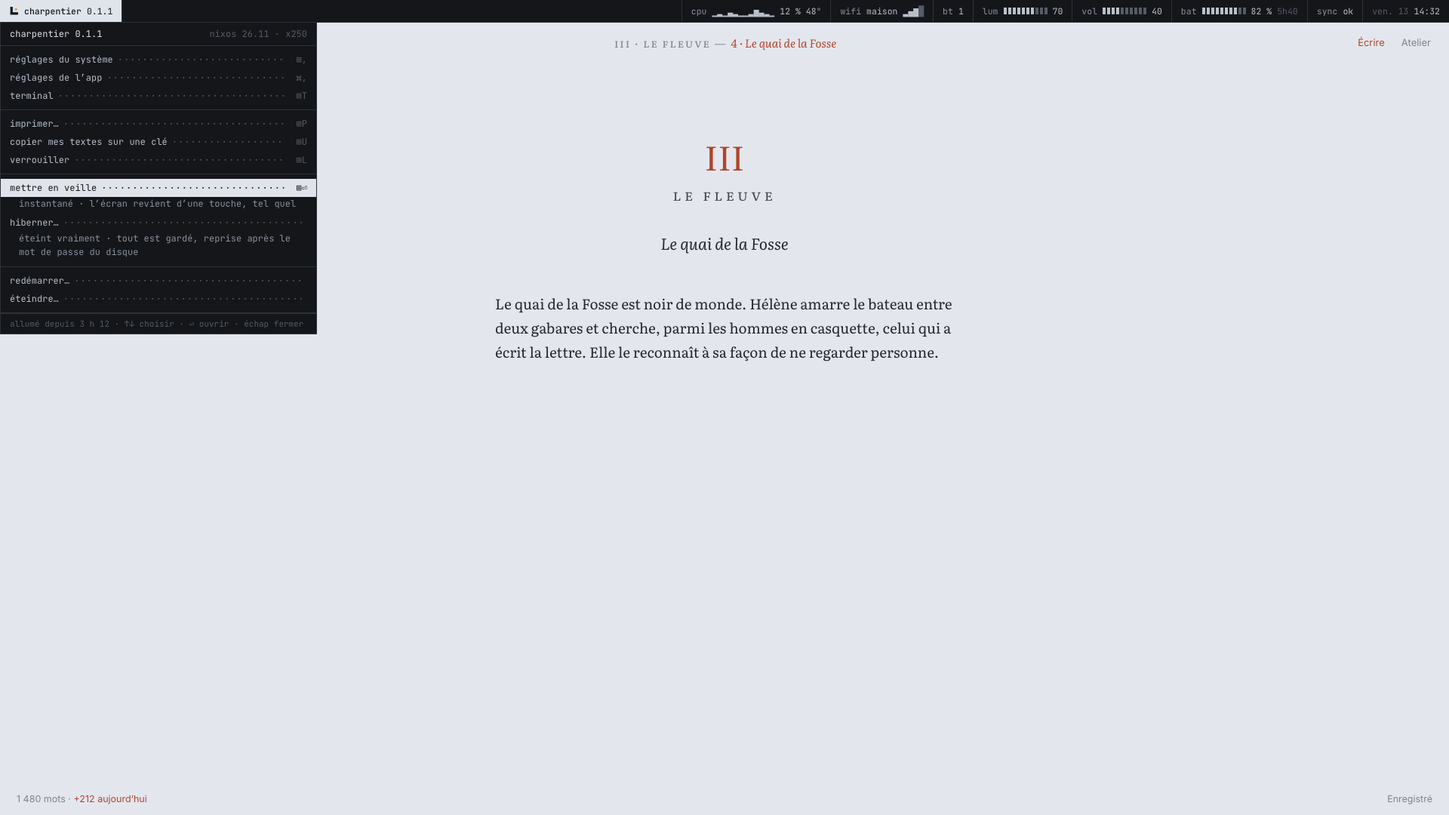
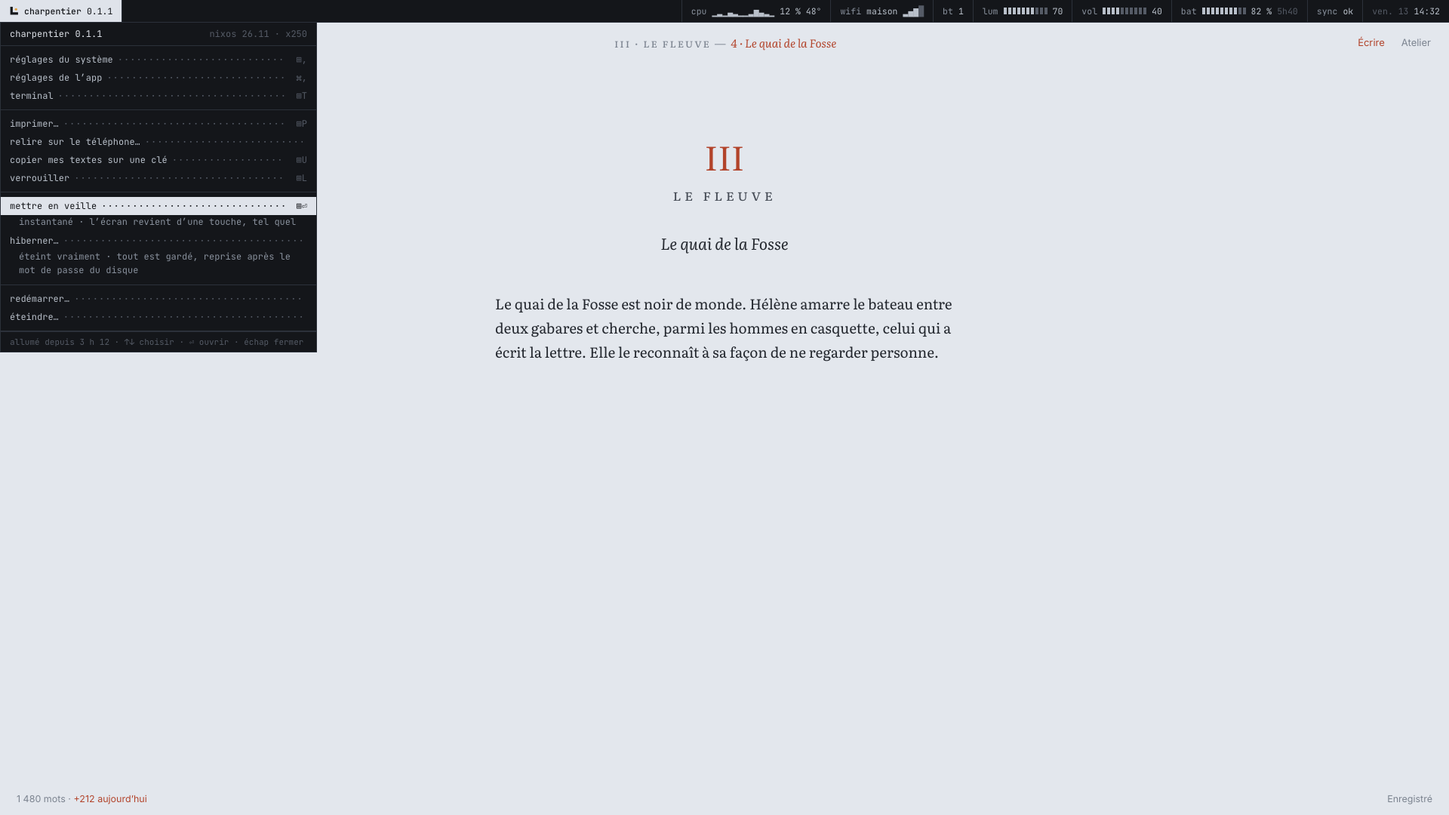
docs(design): 1.22, D-41 in the system's charter: the writing odometer and year map, :fetch, the maintenance log and system repair, reading on the phone

Changed region(s): [[0.0, 0.1528, 0.2188, 0.4583]]

diff --git a/docs/design/systeme.html b/docs/design/systeme.html
@@ -537,7 +537,7 @@
             `<div class="sys panel" style="width:420px">
             <div class="ph">charpentier 0.1.1<span>nixos 26.11 · x250</span></div>
             <div class="grp">${row('réglages du système', '', { k: '⊞,' })}${row('réglages de l’app', '', { k: '⌘,' })}${row('terminal', '', { k: '⊞T' })}</div>
-            <div class="grp">${row('imprimer…', '', { k: '⊞P' })}${row('copier mes textes sur une clé', '', { k: '⊞U' })}${row('verrouiller', '', { k: '⊞L' })}</div>
+            <div class="grp">${row('imprimer…', '', { k: '⊞P' })}${row('relire sur le téléphone…')}${row('copier mes textes sur une clé', '', { k: '⊞U' })}${row('verrouiller', '', { k: '⊞L' })}</div>
             <div class="grp">
               <div class="row sel"><span>mettre en veille</span>${lead()}<span class="k">⊞⏎</span></div>
               <div class="help">instantané · l’écran revient d’une touche, tel quel</div>
@@ -673,6 +673,127 @@
               </div>
             </div>
           </div>`,
+        moniteur: () =>
+          line({ open: 'cpu', msg: '' }) +
+          `<div class="sys full" style="padding:18px 28px">
+            <div style="display:flex;align-items:center;gap:10px;padding-bottom:12px;border-bottom:1px solid var(--sys-rule)">${SQ}<span style="color:var(--ch-ink)">moniteur</span><span class="f">x250 · i5-5300U · 8 Go · allumé depuis 3 h 12</span><span style="margin-left:auto" class="f">1 min · <span style="color:var(--ch-ink)">[10 min]</span> · 1 h · échap ×</span></div>
+            <div style="display:grid;grid-template-columns:2fr 1fr;gap:0;border-bottom:1px solid var(--sys-rule)">
+              <div style="padding:14px 20px 16px 0;border-right:1px solid var(--sys-rule)">
+                <div class="row" style="padding:0"><span style="color:var(--ch-ink)">écriture</span>${lead()}<span class="sub">compté sur cet appareil seulement</span></div>
+                <div style="display:flex;gap:56px;align-items:flex-end;margin:12px 0 16px">
+                  <div><div class="f">frappes depuis l’installation</div><div style="display:flex;gap:3px;margin-top:6px">${'0412873'
+                    .split('')
+                    .map(
+                      (d, i) =>
+                        `<span style="display:inline-block;width:30px;height:42px;border:1px solid var(--sys-rule);text-align:center;font:300 30px/42px var(--ch-font-sys);color:var(--ch-ink)${i === 3 ? ';margin-left:8px' : ''}">${d}</span>`,
+                    )
+                    .join('')}</div></div>
+                  <div><div class="f">mots par minute</div><div style="font:300 30px/42px var(--ch-font-sys);color:var(--ch-ink);margin-top:6px">38 <span style="font-size:13px" class="sub">en ce moment · 31 en moyenne</span></div></div>
+                  <div><div class="f">aujourd’hui</div><div style="font:300 30px/42px var(--ch-font-sys);color:var(--ch-ink);margin-top:6px">1 214 <span style="font-size:13px" class="sub">mots · 1 h 48</span></div></div>
+                </div>
+                <div class="f" style="margin-bottom:6px">2026 · mots par jour</div>
+                <div id="year" style="display:grid;grid-template-rows:repeat(7,11px);grid-auto-flow:column;grid-auto-columns:11px;gap:3px"></div>
+                <div style="display:flex;gap:6px;align-items:center;margin-top:8px" class="f">moins ${[0, 1, 2, 3, 4].map((l) => `<i style="display:inline-block;width:11px;height:11px;background:${['#20242a', '#3a404a', '#5f6773', '#8f97a3', '#c9ced6'][l]}"></i>`).join('')} plus · 214 jours d’écriture · plus longue série 23 jours</div>
+              </div>
+              <div style="padding:14px 0 16px 20px;min-width:0;overflow:hidden">
+                <div class="row" style="padding:0"><span style="color:var(--ch-ink)">processeur</span>${lead()}<span class="val">12 %</span></div>
+                <svg viewBox="0 0 300 70" width="340" height="84" style="display:block;margin:8px 0"><path d="M0 60 L20 58 40 61 60 50 80 55 100 40 120 52 140 57 160 30 180 48 200 55 220 59 240 45 260 52 280 57 300 54" fill="none" stroke="#dfe3ea" stroke-width="1.4"/><path d="M0 60 L20 58 40 61 60 50 80 55 100 40 120 52 140 57 160 30 180 48 200 55 220 59 240 45 260 52 280 57 300 54 V70 H0Z" fill="rgb(223 227 234 / .08)"/></svg>
+                ${row('fréquence', '1,2 GHz')}${row('charge 1, 5, 15 min', '0,42 · 0,51 · 0,48')}
+              </div>
+            </div>
+          </div>`,
+        fetch: () =>
+          page() +
+          line({ msg: '' }) +
+          `<div class="sys" style="position:absolute;inset:30px 0 auto;height:432px;z-index:4;border-bottom:1px solid var(--sys-rule);font-size:13px;line-height:20px">
+            <div style="display:flex;justify-content:space-between;padding:4px 14px;border-bottom:1px solid var(--sys-rule);font-size:12px;line-height:22px"><span style="display:flex;gap:9px;align-items:center;color:var(--ch-ink)">${SQ}terminal <span style="color:var(--ch-faint)">pierre@x250 · ~</span></span><span style="color:var(--ch-faint)">⊞↑ ⊞↓ hauteur · ⊞⇧T plein cadre · ⊞T fermer</span></div>
+            <div style="padding:10px 14px"><span style="color:var(--ch-muted)">~ $</span> :fetch</div>
+            <div style="display:flex;gap:42px;padding:6px 14px 0 30px">
+<pre style="margin:0;font:inherit;line-height:14px;color:var(--ch-ink)">████
+████
+████
+████           <span style="color:#e0a040">▄██▄</span>
+████           <span style="color:#e0a040">▀██▀</span>
+████
+████
+██████████████████████
+██████████████████████
+██████████████████████</pre>
+              <div style="min-width:520px">
+                <div style="color:var(--ch-ink)">pierre<span class="f">@</span>x250</div><div class="f">────────────────────────</div>
+                ${[
+                  ['charpentier', '0.1.1 · installée le 14 nov.'],
+                  ['système', 'nixos 26.11 · génération 42'],
+                  ['machine', 'thinkpad x250 · i5-5300U · 8 Go'],
+                  ['écran', '1920 × 1080 · 100 %'],
+                  ['disque', '118 Go chiffrés · 21 % occupés'],
+                  ['batteries', '74 % + 90 % · usure 12 %, 21 %'],
+                  ['allumé depuis', '3 h 12'],
+                  ['frappes', '412 873 depuis l’installation'],
+                  ['aujourd’hui', '1 214 mots'],
+                ]
+                  .map(
+                    ([k, v]) =>
+                      `<div><span style="color:var(--ch-muted);display:inline-block;width:150px">${k}</span><span style="color:var(--ch-ink-2)">${v}</span></div>`,
+                  )
+                  .join('')}
+                <div style="display:flex;gap:0;margin-top:10px">${['#14161a', '#d26a5c', '#8fb58a', '#c8a86a', '#7d9cc0', '#b48ab8', '#7fb3b0', '#b9c0ca'].map((c) => `<i style="display:block;width:28px;height:14px;background:${c};border:1px solid var(--sys-rule)"></i>`).join('')}</div>
+                <div style="display:flex;gap:0">${['#555b66', '#e08575', '#a8cba3', '#dcc488', '#9db8d8', '#c9a3cc', '#9ccbc8', '#dfe3ea'].map((c) => `<i style="display:block;width:28px;height:14px;background:${c};border:1px solid var(--sys-rule)"></i>`).join('')}</div>
+              </div>
+            </div>
+            <div style="padding:10px 14px"><span style="color:var(--ch-muted)">~ $</span> <span style="background:#e0a040;color:#14161a">&nbsp;</span></div>
+          </div>`,
+        apropos: () =>
+          line({ msg: '' }) +
+          `<div class="sys full">
+          <div class="rail"><div class="t">${SQ}réglages du système</div><div style="padding-top:8px">
+            ${row('réseau', 'maison')}${row('bluetooth', '1')}${row('écran', '100 %')}${row('son', '40')}${row('clavier', 'azerty')}${row('énergie', '82 %')}${row('verrouillage', 'au réveil')}${row('impression', 'brother')}${row('clé usb', '—')}${row('date et heure', 'paris')}${row('terminal', 'visible')}
+            <div class="row sel"><span>à propos</span>${lead()}<span>0.1.1</span></div></div>
+            <div class="last">${row('réglages de l’app', '', { k: '⌘,' })}</div></div>
+          <div class="sec"><div class="xclose">échap ×</div><div class="path">réglages du système /</div><h1>à propos</h1>
+            <div class="grp"><div class="gt">charpentier</div>${row('version', '0.1.1 · installée le 14 nov. 2026')}${row('système', 'nixos 26.11 · génération 42')}${row('mise à jour', 'à jour · vérifiée à 14:05')}</div>
+            <div class="grp"><div class="gt">carnet d’entretien</div>
+              ${row('bat0 · interne', 'usure 12 % · 214 cycles · 23,1 Wh sur 26,3')}
+              ${row('bat1 · arrière', 'usure 21 % · 389 cycles · 19,0 Wh sur 24,0')}
+              ${row('disque · smart', 'bon · 6 412 h · 0 secteur réalloué')}
+              ${row('températures', 'max 71° ce mois · ventilateur 3 200 tr/min')}
+              <div class="gt" style="margin-top:8px">notes</div>
+              ${row('<span class="sub">12 oct. 2026</span>&nbsp;&nbsp;pâte thermique refaite', '')}
+              ${row('<span class="sub">3 sept. 2026</span>&nbsp;&nbsp;batterie arrière changée (Green Cell)', '')}
+              <div class="row"><span class="btn">ajouter une note<kbd>N</kbd></span></div>
+            </div>
+            <div class="grp"><div class="gt">réparer</div>
+              <div class="row sel"><span>réparer le système…</span>${lead()}<span>⏎</span></div>
+              <div class="help" style="padding-left:0">vérifie chaque fichier du système et remplace ce qui est abîmé, depuis le serveur ; reconstruit le menu de démarrage. ne touche ni à vos projets, ni aux réseaux, au verrou, à la synchronisation, à la clé ou aux réglages.</div>
+            </div>
+            <div class="foot" style="border:0;padding:12px 0 0">↑↓ choisir · ⏎ ouvrir · N note · échap revenir au texte</div>
+          </div></div>`,
+        reparer: () =>
+          line({ msg: 'réparation · 1 284 fichiers sur 3 902' }) +
+          `<div class="sys full"><div class="sec" style="left:0;padding:22px 48px 0 389px"><div class="path">réglages du système / à propos /</div><h1>réparer le système</h1>
+            <div class="grp"><div class="row"><span>vérification des fichiers</span>${lead()}<span class="val">1 284 / 3 902</span></div>
+            <div style="display:flex;gap:2px;margin:6px 0 10px">${Array.from({ length: 40 }, (_, i) => `<i style="width:6px;height:10px;background:${i < 13 ? '#b9c0ca' : '#2c313a'}"></i>`).join('')}</div>
+            ${row('remplacés', '2 · depuis sync.exemple.org')}${row('menu de démarrage', '<span class="sub">à reconstruire ensuite</span>')}
+            <div class="help" style="padding-left:0">vous pouvez continuer d’écrire. rien n’est redémarré sans vous le demander.</div></div>
+            <div class="grp" style="padding-top:12px"><span class="btn">arrêter<kbd>échap</kbd></span></div>
+          </div></div>`,
+        telephone: () =>
+          page() +
+          line({ open: 'sys', msg: '' }) +
+          under(
+            'sys',
+            `<div class="sys panel" style="width:420px">
+            <div class="ph">relire sur le téléphone<span>lecture seule</span></div>
+            <div class="grp" style="display:flex;gap:16px;padding:14px 12px">
+              <div id="qr" style="flex:none;width:148px;height:148px;background:#dfe3ea;padding:8px;box-sizing:border-box"></div>
+              <div style="line-height:20px"><div style="color:var(--ch-ink)">visez ce code avec le téléphone</div>
+                <div class="sub" style="margin-top:6px">même réseau que le x250 :</div><div style="color:var(--ch-ink-2)">maison</div>
+                <div class="sub" style="margin-top:6px">ou ouvrez :</div><div style="color:var(--ch-ink-2)">192.168.1.24:8443</div><div class="sub">code <span style="color:var(--ch-ink)">K7Q-42M</span></div></div>
+            </div>
+            <div class="grp">${row('roman', 'Avant Nantes')}${row('à partir de', 'III.4 · Le quai de la Fosse')}</div>
+            <div class="foot">ouvert tant que ce panneau l’est · échap coupe l’accès</div>
+          </div>`,
+          ),
         echelle: () =>
           page() +
           line({ msg: 'clé branchée · <span class="acc">⊞U copier</span>', batLow: false }),
@@ -685,6 +806,58 @@
           }),
       };
       frame.innerHTML = (screens[ecran] || screens.ligne)();
+      // La carte de l'année (moniteur) et un faux code QR (téléphone), tirés d'un hasard fixe.
+      let seed = 7;
+      const rnd = () => (seed = (seed * 9301 + 49297) % 233280) / 233280;
+      const year = document.getElementById('year');
+      if (year) {
+        const tones = ['#20242a', '#3a404a', '#5f6773', '#8f97a3', '#c9ced6'];
+        year.innerHTML = Array.from({ length: 53 * 7 }, (_, i) => {
+          const future = i > 46 * 7 + 1;
+          const r = rnd();
+          const l = future ? -1 : r < 0.35 ? 0 : r < 0.55 ? 1 : r < 0.78 ? 2 : r < 0.93 ? 3 : 4;
+          return `<i style="background:${l < 0 ? 'transparent;outline:1px solid #20242a' : tones[l]}"></i>`;
+        }).join('');
+      }
+      const qr = document.getElementById('qr');
+      if (qr) {
+        const n = 25;
+        const finder = (x, y) =>
+          [
+            [0, 0],
+            [n - 7, 0],
+            [0, n - 7],
+          ].some(([a, b]) => x >= a && x < a + 7 && y >= b && y < b + 7);
+        const fin = (x, y) => {
+          for (const [a, b] of [
+            [0, 0],
+            [n - 7, 0],
+            [0, n - 7],
+          ]) {
+            if (x >= a && x < a + 7 && y >= b && y < b + 7) {
+              const dx = x - a,
+                dy = y - b;
+              return (
+                dx === 0 ||
+                dy === 0 ||
+                dx === 6 ||
+                dy === 6 ||
+                (dx >= 2 && dx <= 4 && dy >= 2 && dy <= 4)
+              );
+            }
+          }
+          return false;
+        };
+        qr.innerHTML = `<svg viewBox="0 0 ${n} ${n}" width="132" height="132" shape-rendering="crispEdges">${Array.from(
+          { length: n * n },
+          (_, i) => {
+            const x = i % n,
+              y = Math.floor(i / n);
+            const on = finder(x, y) ? fin(x, y) : rnd() < 0.5;
+            return on ? `<rect x="${x}" y="${y}" width="1" height="1" fill="#14161a"/>` : '';
+          },
+        ).join('')}</svg>`;
+      }
     </script>
   </body>
 </html>

diff --git a/docs/DESIGN.md b/docs/DESIGN.md
@@ -1,6 +1,6 @@
 # Charpentier : design language
 
-- **Version** : 1.22 (17 novembre 2026). 1.22 : la vue **Réglages de l'app** (`⌘,`) dans le design de l'app (§4.8) ; le **démarrage** du X250 en un plan fixe, du logo du fabricant au rideau qui devient la ligne système, la barre en encre (§4.12) ; seize couleurs sobres dans le terminal. 1.21 : la **charte du système** du X250 (choix de l'auteur) : grammaire « instrument plat » (surfaces plates, filets, sélection inversée, points de conduite) et une couleur propre à la machine, l'**ambre**, pour ce qui attend un geste (§3.1) ; dans §4.12, la ligne commence par `charpentier 0.1.1`, un seul segment réseau, la ligne dessinée pour 1920 px avec un ordre de retrait à 150 %, les notifications en trois niveaux, la section Énergie, veille et hibernation distinctes, un terminal intégré, Imprimer et le verrouillage dans la charte du système, des Réglages du système entièrement dans cette charte. 1.20 : les **versions de travail** du roman (choix de l'auteur : ni copie, ni branches) : une version retient la variante lue pour chaque scène, tout le reste est commun ; elles vivent dans la feuille du roman, la version active se lit dans le titre, l'en-tête de scène et le tiroir (§4.4) ; les deux choix confirmés par l'auteur. 1.19 : le **titre du roman** devient un point d'entrée visible en haut à gauche de la page, sur le Mac, le web et le X250 ; il ouvre la feuille du roman (renommer, les trois derniers romans, tous les romans), renommer aussi dans la vue d'ensemble, et le titre du tiroir ouvre la même feuille (§4.8) ; les trois choix confirmés par l'auteur. 1.18 : **un seul fil, deux vues** [D-35] : l'Entretien et la Conversation montrent le même fil, chacune plie les échanges de l'autre mode à leur place, « Ouvrir dans la conversation » depuis un pli ; la page devient **« Le Compagnon »**, en mode entretien (tranché par l'auteur) ; deux choix à confirmer (§4.5). 1.17 : le **Carnet du Compagnon** [D-35] (phase 6.5) : sa mémoire en notes courtes, deux carnets (Ce roman, Vous) sur une page de l'Atelier, notes du Compagnon dans son encre, notes de l'auteur en creux avec le filet vermillon, correction sur place, corbeille, « Noté au carnet » sous ses réponses, retour au message d'origine (§4.5) ; trois choix à confirmer par l'auteur. 1.16 : les **textes de référence** et la page **Style et voix** (phase 6.4) : import depuis l'Entretien, confirmation avec le coût dans la conversation, propositions sous la réponse, module groupé par catégorie, citation gravée d'un choix validé dans une remarque (§4.5) ; deux choix à confirmer par l'auteur. 1.15 : la **page d'administration du serveur** `/admin`, dans la matière du système, feuille de style livrée (§4.13) ; matière à confirmer par l'auteur. 1.14 : les **travaux de fond du Compagnon** [D-27] : vérifier la structure, suivre les indices, faire le point sur un personnage, lancés en pied de la liste du module, coût annoncé, état sur place, bilan dans la conversation (§4.5 « Travaux de fond du Compagnon ») ; trois choix à confirmer par l'auteur. 1.13 : la **croix de fermeture**, partout où l'on sort par `Échap`, pour tout faire à la souris (§4.8 « Sortie à la souris »). 1.12 : le **premier démarrage du X250 depuis le téléphone** [D-33] : choix téléphone ou clavier, deux codes QR, réglages appliqués ligne à ligne, page du téléphone (§4.12 « Premier démarrage de l'appareil ») ; les petits écrans, jusqu'à 880 px sans défilement de côté (§4.2, §4.12 « Largeur », §5.4). 1.11 : l'**installation du X250** depuis la clé USB et `scripts/flash-installer.sh` sur le Mac (§4.12 « Installation »). 1.10 : les **mises à jour du X250**, tirées du serveur [D-28] : segment `maj`, `⊞R`, « À propos », retour à la version précédente (§4.12). 1.9 : l'**Entretien** avec le Compagnon en tête du rail de l'Atelier [D-26] (§4.5) ; « Méta » devient « Le projet ». 1.8 : **le creux garde, la lumière suit** : deux signes, deux sens, jamais sur le même élément (§1 principe 3, §4.7) ; la lumière devient la lueur blanche qui déborde sous la ligne système quand un segment s'ouvre (sur la page claire, l'élément pâlit en plus), les onglets perdent leur rail, une option choisie est une touche restée enfoncée, l'appui allume. Remplace le « relief, creux, allumé » de la 1.7 (cerne et halo de lumière, creux le temps de l'appui, « relief allumé »), où l'auteur ne voyait pas de vraie logique de séparation ; le « liseré de lumière » de la 1.5 reste abandonné. 1.6 : le moniteur du X250 (§4.12). 1.5 : la **ligne système** du X250 et tout ce qu'elle ouvre (§4.12), la matière du système (§3.1), la police à chasse fixe (§3.2), le **liseré de lumière** sur ce qu'on presse (§4.7). 1.4 : en thème sombre, l'ardoise reste la même et la page s'assombrit (§3.1). 1.3 : les outils changent de matière, **ardoise sombre**, et reçoivent des **outils gravés** (§3.1, §4.11), l'auteur trouvant l'ensemble trop neutre hors de la page d'écriture. 1.2 : finitions (sons §3.4, rejets §4.5, restauration dans la vue d'ensemble §4.4, note en fenêtre étroite §4.2, bibliothèque §4.9, icône §4.10). 1.1 : tout devient découvrable sans raccourci (§4.8, §5.1), après essai de l'app par l'auteur ; inventaire et directions comparées dans [design/decouverte.md](design/decouverte.md).
+- **Version** : 1.22 (17 novembre 2026). 1.22 : D-41 dessiné dans la charte du système (l'odomètre et la carte d'écriture du moniteur, `:fetch`, le carnet d'entretien et « Réparer le système… », relire sur le téléphone) ; la vue **Réglages de l'app** (`⌘,`) dans le design de l'app (§4.8) ; le **démarrage** du X250 en un plan fixe, du logo du fabricant au rideau qui devient la ligne système, la barre en encre (§4.12) ; seize couleurs sobres dans le terminal. 1.21 : la **charte du système** du X250 (choix de l'auteur) : grammaire « instrument plat » (surfaces plates, filets, sélection inversée, points de conduite) et une couleur propre à la machine, l'**ambre**, pour ce qui attend un geste (§3.1) ; dans §4.12, la ligne commence par `charpentier 0.1.1`, un seul segment réseau, la ligne dessinée pour 1920 px avec un ordre de retrait à 150 %, les notifications en trois niveaux, la section Énergie, veille et hibernation distinctes, un terminal intégré, Imprimer et le verrouillage dans la charte du système, des Réglages du système entièrement dans cette charte. 1.20 : les **versions de travail** du roman (choix de l'auteur : ni copie, ni branches) : une version retient la variante lue pour chaque scène, tout le reste est commun ; elles vivent dans la feuille du roman, la version active se lit dans le titre, l'en-tête de scène et le tiroir (§4.4) ; les deux choix confirmés par l'auteur. 1.19 : le **titre du roman** devient un point d'entrée visible en haut à gauche de la page, sur le Mac, le web et le X250 ; il ouvre la feuille du roman (renommer, les trois derniers romans, tous les romans), renommer aussi dans la vue d'ensemble, et le titre du tiroir ouvre la même feuille (§4.8) ; les trois choix confirmés par l'auteur. 1.18 : **un seul fil, deux vues** [D-35] : l'Entretien et la Conversation montrent le même fil, chacune plie les échanges de l'autre mode à leur place, « Ouvrir dans la conversation » depuis un pli ; la page devient **« Le Compagnon »**, en mode entretien (tranché par l'auteur) ; deux choix à confirmer (§4.5). 1.17 : le **Carnet du Compagnon** [D-35] (phase 6.5) : sa mémoire en notes courtes, deux carnets (Ce roman, Vous) sur une page de l'Atelier, notes du Compagnon dans son encre, notes de l'auteur en creux avec le filet vermillon, correction sur place, corbeille, « Noté au carnet » sous ses réponses, retour au message d'origine (§4.5) ; trois choix à confirmer par l'auteur. 1.16 : les **textes de référence** et la page **Style et voix** (phase 6.4) : import depuis l'Entretien, confirmation avec le coût dans la conversation, propositions sous la réponse, module groupé par catégorie, citation gravée d'un choix validé dans une remarque (§4.5) ; deux choix à confirmer par l'auteur. 1.15 : la **page d'administration du serveur** `/admin`, dans la matière du système, feuille de style livrée (§4.13) ; matière à confirmer par l'auteur. 1.14 : les **travaux de fond du Compagnon** [D-27] : vérifier la structure, suivre les indices, faire le point sur un personnage, lancés en pied de la liste du module, coût annoncé, état sur place, bilan dans la conversation (§4.5 « Travaux de fond du Compagnon ») ; trois choix à confirmer par l'auteur. 1.13 : la **croix de fermeture**, partout où l'on sort par `Échap`, pour tout faire à la souris (§4.8 « Sortie à la souris »). 1.12 : le **premier démarrage du X250 depuis le téléphone** [D-33] : choix téléphone ou clavier, deux codes QR, réglages appliqués ligne à ligne, page du téléphone (§4.12 « Premier démarrage de l'appareil ») ; les petits écrans, jusqu'à 880 px sans défilement de côté (§4.2, §4.12 « Largeur », §5.4). 1.11 : l'**installation du X250** depuis la clé USB et `scripts/flash-installer.sh` sur le Mac (§4.12 « Installation »). 1.10 : les **mises à jour du X250**, tirées du serveur [D-28] : segment `maj`, `⊞R`, « À propos », retour à la version précédente (§4.12). 1.9 : l'**Entretien** avec le Compagnon en tête du rail de l'Atelier [D-26] (§4.5) ; « Méta » devient « Le projet ». 1.8 : **le creux garde, la lumière suit** : deux signes, deux sens, jamais sur le même élément (§1 principe 3, §4.7) ; la lumière devient la lueur blanche qui déborde sous la ligne système quand un segment s'ouvre (sur la page claire, l'élément pâlit en plus), les onglets perdent leur rail, une option choisie est une touche restée enfoncée, l'appui allume. Remplace le « relief, creux, allumé » de la 1.7 (cerne et halo de lumière, creux le temps de l'appui, « relief allumé »), où l'auteur ne voyait pas de vraie logique de séparation ; le « liseré de lumière » de la 1.5 reste abandonné. 1.6 : le moniteur du X250 (§4.12). 1.5 : la **ligne système** du X250 et tout ce qu'elle ouvre (§4.12), la matière du système (§3.1), la police à chasse fixe (§3.2), le **liseré de lumière** sur ce qu'on presse (§4.7). 1.4 : en thème sombre, l'ardoise reste la même et la page s'assombrit (§3.1). 1.3 : les outils changent de matière, **ardoise sombre**, et reçoivent des **outils gravés** (§3.1, §4.11), l'auteur trouvant l'ensemble trop neutre hors de la page d'écriture. 1.2 : finitions (sons §3.4, rejets §4.5, restauration dans la vue d'ensemble §4.4, note en fenêtre étroite §4.2, bibliothèque §4.9, icône §4.10). 1.1 : tout devient découvrable sans raccourci (§4.8, §5.1), après essai de l'app par l'auteur ; inventaire et directions comparées dans [design/decouverte.md](design/decouverte.md).
 - **Direction retenue** : **Perle** pour la page, **ardoise** pour les outils, avec **Deux encres**, **Signature** et **Outils gravés** ; manuscrit en **tiroir + vue d'ensemble** ; points d'entrée en **poignées** sur les bords et **zone de commande** en pied.
 - **Sources** : brief de l'auteur ([design/brief.md](design/brief.md)), maquettes ([design/mockups/](design/mockups/), ouvrir `index.html`), tokens CSS proposés ([design/tokens.css](design/tokens.css)).
 - Complète la [SPEC](SPEC.md) (§6 mentor, §7.1 statuts, §19 exigences transverses) sans la contredire.
@@ -452,7 +452,7 @@ Sur le X250, l'app est la partie visible du système [D-24]. Maquette : cadre «
 
 | Segment | Affiche | Un clic ou sa touche déplie |
 |---|---|---|
-| `charpentier 0.1.1` `⊞` | l'équerre ([design/pictos/equerre.svg](design/pictos/equerre.svg), en aplat, son point en ambre), `charpentier` en `--ch-ink` 500 et la version installée en `--ch-ink-2` (pas en ambre : ce n'est pas une attente) ; quand la place manque, la version s'efface avant le mot (1.21, demande de l'auteur : le nom de l'app et sa version à la place de « système ») | le **menu système**, en groupes séparés par des filets : Réglages du système… `⊞,`, Réglages de l'app… `⌘,`, Terminal `⊞T` ; Imprimer… `⊞P`, Copier mes textes sur une clé USB `⊞U`, Verrouiller `⊞L` ; **Mettre en veille** `⊞⏎` et **Hiberner…**, deux lignes à part, chacune avec sa ligne d'aide en `--ch-muted` (« instantané · l'écran revient d'une touche, tel quel » ; « éteint vraiment · tout est gardé, reprise après le mot de passe du disque ») ; Redémarrer…, Éteindre… En tête `charpentier 0.1.1` et `nixos 26.11 · x250`, en pied « allumé depuis 3 h 12 ». Rendu : [design/systeme/3-menu](design/systeme/3-menu.png). Une version prête : « Redémarrer… » devient « Redémarrer et passer à 0.6.0… `⊞R` », et le pied commence par « 0.6.0 s'installe au prochain démarrage, quel qu'il soit » |
+| `charpentier 0.1.1` `⊞` | l'équerre ([design/pictos/equerre.svg](design/pictos/equerre.svg), en aplat, son point en ambre), `charpentier` en `--ch-ink` 500 et la version installée en `--ch-ink-2` (pas en ambre : ce n'est pas une attente) ; quand la place manque, la version s'efface avant le mot (1.21, demande de l'auteur : le nom de l'app et sa version à la place de « système ») | le **menu système**, en groupes séparés par des filets : Réglages du système… `⊞,`, Réglages de l'app… `⌘,`, Terminal `⊞T` ; Imprimer… `⊞P`, Relire sur le téléphone…, Copier mes textes sur une clé USB `⊞U`, Verrouiller `⊞L` ; **Mettre en veille** `⊞⏎` et **Hiberner…**, deux lignes à part, chacune avec sa ligne d'aide en `--ch-muted` (« instantané · l'écran revient d'une touche, tel quel » ; « éteint vraiment · tout est gardé, reprise après le mot de passe du disque ») ; Redémarrer…, Éteindre… En tête `charpentier 0.1.1` et `nixos 26.11 · x250`, en pied « allumé depuis 3 h 12 ». Rendu : [design/systeme/3-menu](design/systeme/3-menu.png). Une version prête : « Redémarrer… » devient « Redémarrer et passer à 0.6.0… `⊞R` », et le pied commence par « 0.6.0 s'installe au prochain démarrage, quel qu'il soit » |
 | message | un message **à faire** en ambre, tant que sa cause dure ; un message **fait** en `--ch-muted`, quelques secondes, hors frappe ; sinon `journal` en `--ch-faint`, suivi de `· N` en ambre quand N choses attendent (voir « Notifications ») | le **journal** `⊞J` : en tête « à faire · N » (l'heure en ambre, le geste à droite : « réessayer ⏎ », `⊞R`), puis « fait », du plus récent au plus ancien ; effacé à l'extinction ; en pied « le reste est dans journalctl ». Rendu : [design/systeme/4-journal](design/systeme/4-journal.png) |
 | `maj` | la version prête (`maj 0.6.0`, la version en ambre), **seulement tant qu'une mise à jour attend le redémarrage** ; disparaît au démarrage suivant | la mise à jour `⊞R` : version, date de publication, notes, Redémarrer maintenant, Plus tard (voir « Mises à jour ») |
 | `usb` | le nom de la clé, seulement si une clé est branchée | Copier mes textes `⊞U`, Éjecter |
@@ -510,7 +510,7 @@ Sur le X250, l'app est la partie visible du système [D-24]. Maquette : cadre «
 | Date et heure | fuseau, heure automatique par le réseau, format 24 h / 12 h |
 | Terminal | point d'entrée visible `[oui] non` (oui par défaut) ; rappel : masqué et bloqué dès que l'app est verrouillée ; la combinaison de secours (`Ctrl` `Alt` `⇧` `⏎`, foot) et la console `Ctrl` `Alt` `F2` restent |
 | Ligne système | afficher le segment `cpu` (oui par défaut) ; les autres segments sont fixes |
-| À propos | Charpentier (version, date d'installation), système (NixOS, génération) ; **Mise à jour** : version prête ou nouveautés de la version installée, Vérification (dernière heure, Vérifier maintenant), Revenir à la version précédente (voir « Mises à jour ») ; **Appareil** : stockage, licences. Valeur dans le rail : la version, ou « 0.6.0 prête » |
+| À propos | Charpentier (version, date d'installation), système (NixOS, génération) ; **carnet d'entretien** (1.22, D-41) : chaque batterie (usure, cycles, capacité), le disque (état SMART, heures, secteurs réalloués), les températures (maximum du mois, ventilateur), puis des **notes à la main**, datées (« pâte thermique refaite »), ajoutées par « ajouter une note `N` » ; **réparer** : « réparer le système… » et son aide (« vérifie chaque fichier du système et remplace ce qui est abîmé, depuis le serveur ; reconstruit le menu de démarrage. ne touche ni à vos projets, ni aux réseaux, au verrou, à la synchronisation, à la clé ou aux réglages. ») ; confirmation légère (« confirmer : réparer `⏎` », 3 s), puis la page « réparer le système » : la barre de quarante cellules en encre, le compte des fichiers vérifiés et remplacés, « vous pouvez continuer d'écrire. rien n'est redémarré sans vous le demander. », « arrêter `échap` » ; à la fin, un message fait (« système réparé · 2 fichiers remplacés »). L'effacement du disque reste hors de l'interface. Rendus : [design/systeme/13-a-propos-entretien](design/systeme/13-a-propos-entretien.png), [14-reparer](design/systeme/14-reparer.png) ; **Mise à jour** : version prête ou nouveautés de la version installée, Vérification (dernière heure, Vérifier maintenant), Revenir à la version précédente (voir « Mises à jour ») ; **Appareil** : stockage, licences. Valeur dans le rail : la version, ou « 0.6.0 prête » |
 
 **Moniteur** (`⊞M`, ou un clic sur `cpu`). Pour le plaisir de voir tourner la machine : tout ce qu'elle sait mesurer, sans jamais déranger l'écriture.
 - **Segment `cpu`** : une colonne toutes les 5 secondes (la moyenne de ces 5 secondes), douze colonnes, soit la dernière minute ; hauteur sur huit niveaux. **Pendant la frappe, il se fige** : il ne se met plus à jour, puis rattrape à la première pause (même règle que les points d'entrée, §4.8). Présent d'office sur le X250, retirable dans les réglages.
@@ -525,6 +525,7 @@ Sur le X250, l'app est la partie visible du système [D-24]. Maquette : cadre «
 | batterie | puissance tirée en watts | chaque batterie : niveau et usure ; autonomie |
 | disque | écritures | espace occupé, lecture et écriture |
 | charpentier | – | tableau des processus de l'app (principal, interface, correcteur) : processeur, mémoire ; documents ouverts |
+| **écriture** (double largeur, en tête de la grille ; 1.22, D-41) | – | l'**odomètre** : les frappes depuis l'installation, sept chiffres dans des cases de 30 × 42 px (JetBrains Mono 300 30 px), groupés par milliers ; les **mots par minute** (en ce moment, en moyenne) et les mots du jour avec leur durée ; la **carte de l'année** : 53 colonnes de 7 jours, cases de 11 px espacées de 3 px, en cinq gris de `#20242a` à `#c9ced6` selon les mots du jour (jamais de couleur), les jours à venir en contour ; légende « moins … plus », jours d'écriture, plus longue série. En tête « compté sur cet appareil seulement » : ces chiffres ne quittent jamais le X250. Rendu : [design/systeme/11-moniteur-ecriture](design/systeme/11-moniteur-ecriture.png) |
 | graphique | – | modèle, fréquence, écran ; « charge : non mesurée » tant qu'elle n'est pas fiable |
 
 - **Courbes** : trait de 1,4 px en `--ch-ink`, aplat à 8 %, seconde série en pointillé `--ch-muted`, trois lignes de repère en pointillé `--ch-faint` ; un échantillon par seconde ; aucune couleur, aucune animation d'entrée. L'écran ne se met à jour que lorsqu'il est affiché.
@@ -564,6 +565,10 @@ Sur le X250, l'app est la partie visible du système [D-24]. Maquette : cadre «
 - **Le rideau** (choix de l'auteur) : l'équerre, la barre et le pied s'effacent en 150 ms, puis toute la matière du système **remonte** en 450 ms (`cubic-bezier(0.3, 0, 0.2, 1)`) jusqu'à n'être plus que la ligne système de 30 px, dont le contenu apparaît en 200 ms : la page se découvre de haut en bas, sans éclair blanc. Animations réduites : un fondu de 200 ms. Du mot de passe à la page : environ 15 s.
 - **Reprise après hibernation** : même plan, « reprise » ; la page revient telle qu'on l'a laissée, sans redemander le code de l'app (le mot de passe du disque vient d'être tapé).
 - **Extinction et redémarrage** : le rideau **redescend** depuis la ligne (450 ms), puis l'équerre et « extinction · vos textes sont enregistrés » (ou « redémarrage », « redémarrage · mise à jour 0.1.2 ») une fois l'enregistrement et la synchronisation faits ; pas de barre (la durée est inconnue) ; puis le noir, ou la séquence reprend.
+
+**`:fetch`** (1.22, D-41) : la fiche de la machine, pour le plaisir. Dans la ligne de commande, `:fetch` ouvre le terminal et y écrit, à gauche, l'**équerre en caractères de bloc** (`█`, `--ch-ink`, son point en ambre : c'est l'emblème), à droite `pierre@x250`, un filet, puis en deux colonnes alignées : charpentier, système, machine, écran, disque, batteries, allumé depuis, frappes depuis l'installation, mots du jour ; dessous, les seize couleurs du terminal en deux rangées de pastilles. Rendu : [design/systeme/12-fetch](design/systeme/12-fetch.png).
+
+**Relire sur le téléphone** (1.22, D-41) : « Relire sur le téléphone… » dans le menu système, ou `:telephone`. Un panneau de 420 px, en-tête « relire sur le téléphone » / `lecture seule` : à gauche le **code QR** (148 px, modules `#14161a` sur `--ch-ink`, la seule surface claire du système, parce qu'un téléphone doit le lire), à droite « visez ce code avec le téléphone », « même réseau que le x250 : maison », l'adresse et le **code** à saisir (`K7Q-42M`, le jeton) ; puis le roman et la scène de départ ; en pied « ouvert tant que ce panneau l'est · échap coupe l'accès ». Fermer le panneau ferme le service. Sur le téléphone, la scène s'affiche en Literata sur la perle, sans aucun contrôle d'édition. Rendu : [design/systeme/15-telephone](design/systeme/15-telephone.png).
 
 **Installation** [5.9 bis]. La clé USB efface le disque interne et y installe le système déjà construit. Rien n'est téléchargé, et rien n'est demandé hors du clavier, de l'effacement et du mot de passe du disque. Maquette : [design/installation.html](design/installation.html). Rendus : [design/x250/](design/x250/), 13 à 17 pour la clé et 18 pour le Mac.
 - **Support** (choix de l'auteur) : **kmscon** sur la première console.
